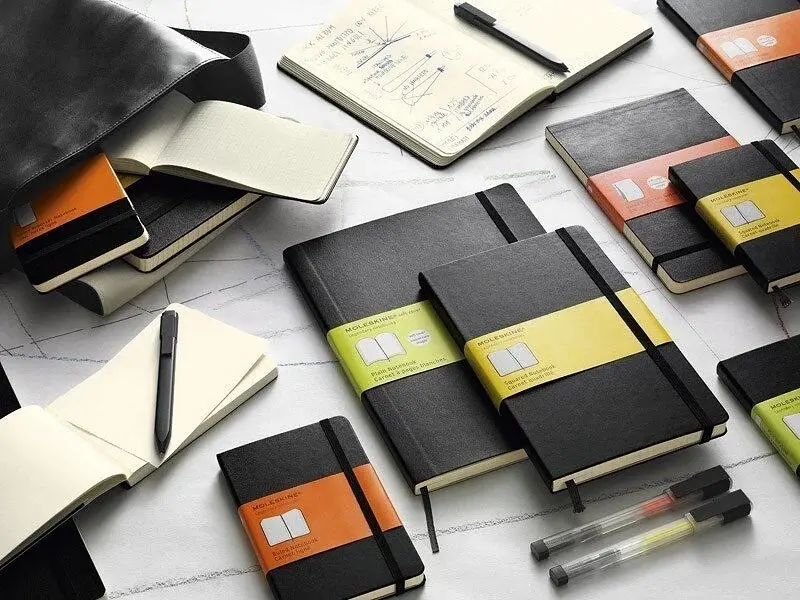
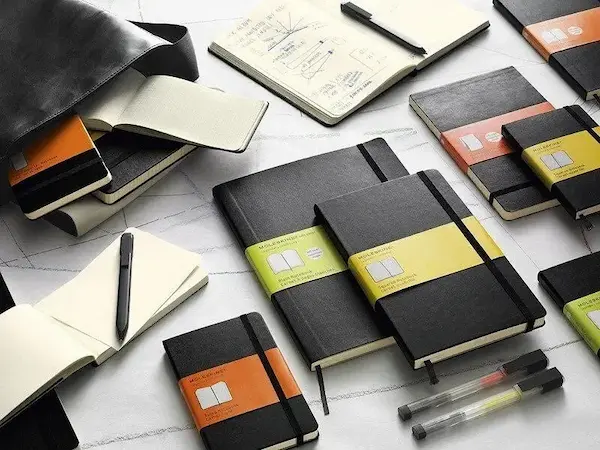
Artykuł welcome pack: ArticleClient renderuje content z Supabase, ArticleCard wyświetla image_url, style article-content

diff --git a/src/app/inspiracje/[slug]/ArticleClient.tsx b/src/app/inspiracje/[slug]/ArticleClient.tsx
@@ -5,13 +5,6 @@ import Link from 'next/link';
 import RecommendedCarousel from '@/components/RecommendedCarousel';
 import type { Article, Product } from '@/types';
 
-// ============================================
-// ZMIANY:
-// - Props: article + recommendedProducts (zamiast slug + import)
-// - Semantyczne: <article> zamiast <div>, <time datetime>
-// - Usunięto import ARTICLES, getRecommendedProducts
-// ============================================
-
 interface ArticleClientProps {
   article: Article;
   recommendedProducts: Product[];
@@ -24,7 +17,6 @@ export default function ArticleClient({ article, recommendedProducts }: ArticleC
     setMounted(true);
   }, []);
 
-  // Formatuj datę do czytelnej formy
   const formatDate = (dateStr?: string) => {
     if (!dateStr) return null;
     try {
@@ -55,23 +47,31 @@ export default function ArticleClient({ article, recommendedProducts }: ArticleC
         </nav>
       </div>
 
-      {/* Semantyczne <article> zamiast <div> */}
       <article className="article-container">
         {/* Hero Image */}
-        <div className="article-hero-image">
-          <svg width="64" height="64" viewBox="0 0 24 24" fill="none" stroke="#9ca3af" strokeWidth="1.5">
-            <rect x="3" y="3" width="18" height="18" rx="2" ry="2"/>
-            <circle cx="8.5" cy="8.5" r="1.5"/>
-            <polyline points="21 15 16 10 5 21"/>
-          </svg>
-        </div>
+        {article.image_url ? (
+          <div className="article-hero-image">
+            <img
+              src={article.image_url}
+              alt={article.title}
+              style={{ width: '100%', height: '100%', objectFit: 'cover', borderRadius: '12px' }}
+            />
+          </div>
+        ) : (
+          <div className="article-hero-image">
+            <svg width="64" height="64" viewBox="0 0 24 24" fill="none" stroke="#9ca3af" strokeWidth="1.5">
+              <rect x="3" y="3" width="18" height="18" rx="2" ry="2"/>
+              <circle cx="8.5" cy="8.5" r="1.5"/>
+              <polyline points="21 15 16 10 5 21"/>
+            </svg>
+          </div>
+        )}
 
         {/* Article Header */}
         <div className="article-header">
           <span className="article-category-badge">{article.category}</span>
           <h1 className="article-title">{article.title}</h1>
           <p className="article-excerpt">{article.excerpt}</p>
-          {/* Data publikacji z <time> */}
           {publishedDate && article.created_at && (
             <time dateTime={article.created_at} className="article-date">
               {publishedDate}
@@ -79,12 +79,19 @@ export default function ArticleClient({ article, recommendedProducts }: ArticleC
           )}
         </div>
 
-        {/* Article Content */}
-        <div className="article-content">
-          <div className="article-content-placeholder">
-            <p>Treść artykułu zostanie uzupełniona później</p>
+        {/* Article Content — renderowany z HTML w Supabase */}
+        {article.content ? (
+          <div
+            className="article-content"
+            dangerouslySetInnerHTML={{ __html: article.content }}
+          />
+        ) : (
+          <div className="article-content">
+            <div className="article-content-placeholder">
+              <p>Treść artykułu zostanie uzupełniona później</p>
+            </div>
           </div>
-        </div>
+        )}
       </article>
 
       {/* Recommended Products Carousel */}

diff --git a/src/app/globals.css b/src/app/globals.css
@@ -962,6 +962,54 @@ textarea,
 /* Content */
 .article-content {
   margin-bottom: 64px;
+  font-family: var(--font-body);
+  font-size: 17px;
+  line-height: 1.85;
+  color: var(--color-text);
+  letter-spacing: -0.01em;
+}
+.article-content h2 {
+  font-family: var(--font-heading);
+  font-size: 26px;
+  font-weight: 700;
+  color: var(--color-text);
+  margin: 56px 0 20px;
+  padding-top: 40px;
+  border-top: 1px solid rgba(0, 0, 0, 0.08);
+  line-height: 1.25;
+}
+.article-content h2:first-child {
+  margin-top: 0;
+  padding-top: 0;
+  border-top: none;
+}
+.article-content h3 {
+  font-family: var(--font-heading);
+  font-size: 20px;
+  font-weight: 600;
+  color: var(--color-text);
+  margin: 36px 0 14px;
+  line-height: 1.3;
+}
+.article-content p {
+  margin: 0 0 22px;
+}
+.article-content a {
+  color: var(--color-primary);
+  text-decoration: none;
+  font-weight: 500;
+  border-bottom: 1.5px solid rgba(79, 103, 177, 0.3);
+  transition: border-color var(--transition-fast);
+}
+.article-content a:hover {
+  border-bottom-color: var(--color-primary);
+}
+.article-content strong {
+  font-weight: 700;
+  color: var(--color-text);
+}
+.article-content em {
+  font-style: italic;
 }
 
 .article-content-placeholder {

diff --git a/src/components/ArticleCard.tsx b/src/components/ArticleCard.tsx
@@ -7,19 +7,27 @@ interface ArticleCardProps {
 
 export default function ArticleCard({ article }: ArticleCardProps) {
   return (
-    <Link 
+    <Link
       href={`/inspiracje/${article.slug}`}
       className="article-card"
     >
       {/* Image */}
       <div className="article-card-image">
-        <svg width="48" height="48" viewBox="0 0 24 24" fill="none" stroke="#9ca3af" strokeWidth="1.5">
-          <rect x="3" y="3" width="18" height="18" rx="2" ry="2"/>
-          <circle cx="8.5" cy="8.5" r="1.5"/>
-          <polyline points="21 15 16 10 5 21"/>
-        </svg>
+        {article.image_url ? (
+          <img
+            src={article.image_url}
+            alt={article.title}
+            style={{ width: '100%', height: '100%', objectFit: 'cover' }}
+          />
+        ) : (
+          <svg width="48" height="48" viewBox="0 0 24 24" fill="none" stroke="#9ca3af" strokeWidth="1.5">
+            <rect x="3" y="3" width="18" height="18" rx="2" ry="2"/>
+            <circle cx="8.5" cy="8.5" r="1.5"/>
+            <polyline points="21 15 16 10 5 21"/>
+          </svg>
+        )}
       </div>
-      
+
       {/* Content */}
       <div className="article-card-content">
         <span className="article-card-category">{article.category}</span>
@@ -29,4 +37,3 @@ export default function ArticleCard({ article }: ArticleCardProps) {
     </Link>
   );
 }
-